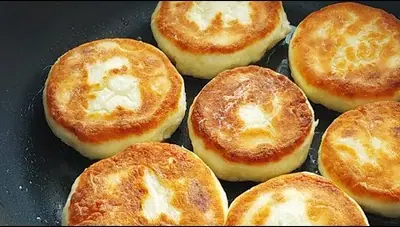
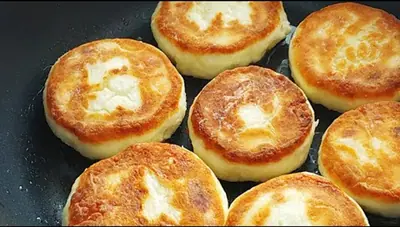
Сырники: увеличенный исходник, чтобы фото не мылило при просмотре
Снимок пришёл размером 480x360 — после обрезки чёрных полей оставалось
480x272, и самым крупным вариантом был 400px. При открытии фото во весь
экран браузеру приходилось растягивать его своими силами.

Теперь исходник увеличен до 1200x680 алгоритмом Lanczos с небольшим
подъёмом резкости, и сборка делает полный набор вариантов, включая 1200px.
Новых деталей это не создаёт — просто получается аккуратнее, чем когда
растягивает браузер.

Claude-Session: https://claude.ai/code/session_01CBe1NiLeGkMLRAmByQmmAK

diff --git a/src/assets/images/manifest.ts b/src/assets/images/manifest.ts
@@ -48,6 +48,8 @@ import saladOlivierFallback from './generated/salad-olivier-800.jpg';
 import saladVinegretW400 from './generated/salad-vinegret-400.webp';
 import saladVinegretFallback from './generated/salad-vinegret-800.jpg';
 import syrnikiW400 from './generated/syrniki-400.webp';
+import syrnikiW800 from './generated/syrniki-800.webp';
+import syrnikiW1200 from './generated/syrniki-1200.webp';
 import syrnikiFallback from './generated/syrniki-800.jpg';
 
 export const IMAGES = {
@@ -125,8 +127,8 @@ export const IMAGES = {
   },
   syrniki: {
     src: syrnikiFallback,
-    srcSet: [`${syrnikiW400} 400w`].join(', '),
[1 lines of base64/hex data omitted]
+    srcSet: [`${syrnikiW400} 400w`, `${syrnikiW800} 800w`, `${syrnikiW1200} 1200w`].join(', '),
[1 lines of base64/hex data omitted]
     aspectRatio: 1.7647,
   },
 } satisfies Record<string, ResponsiveImage>;
